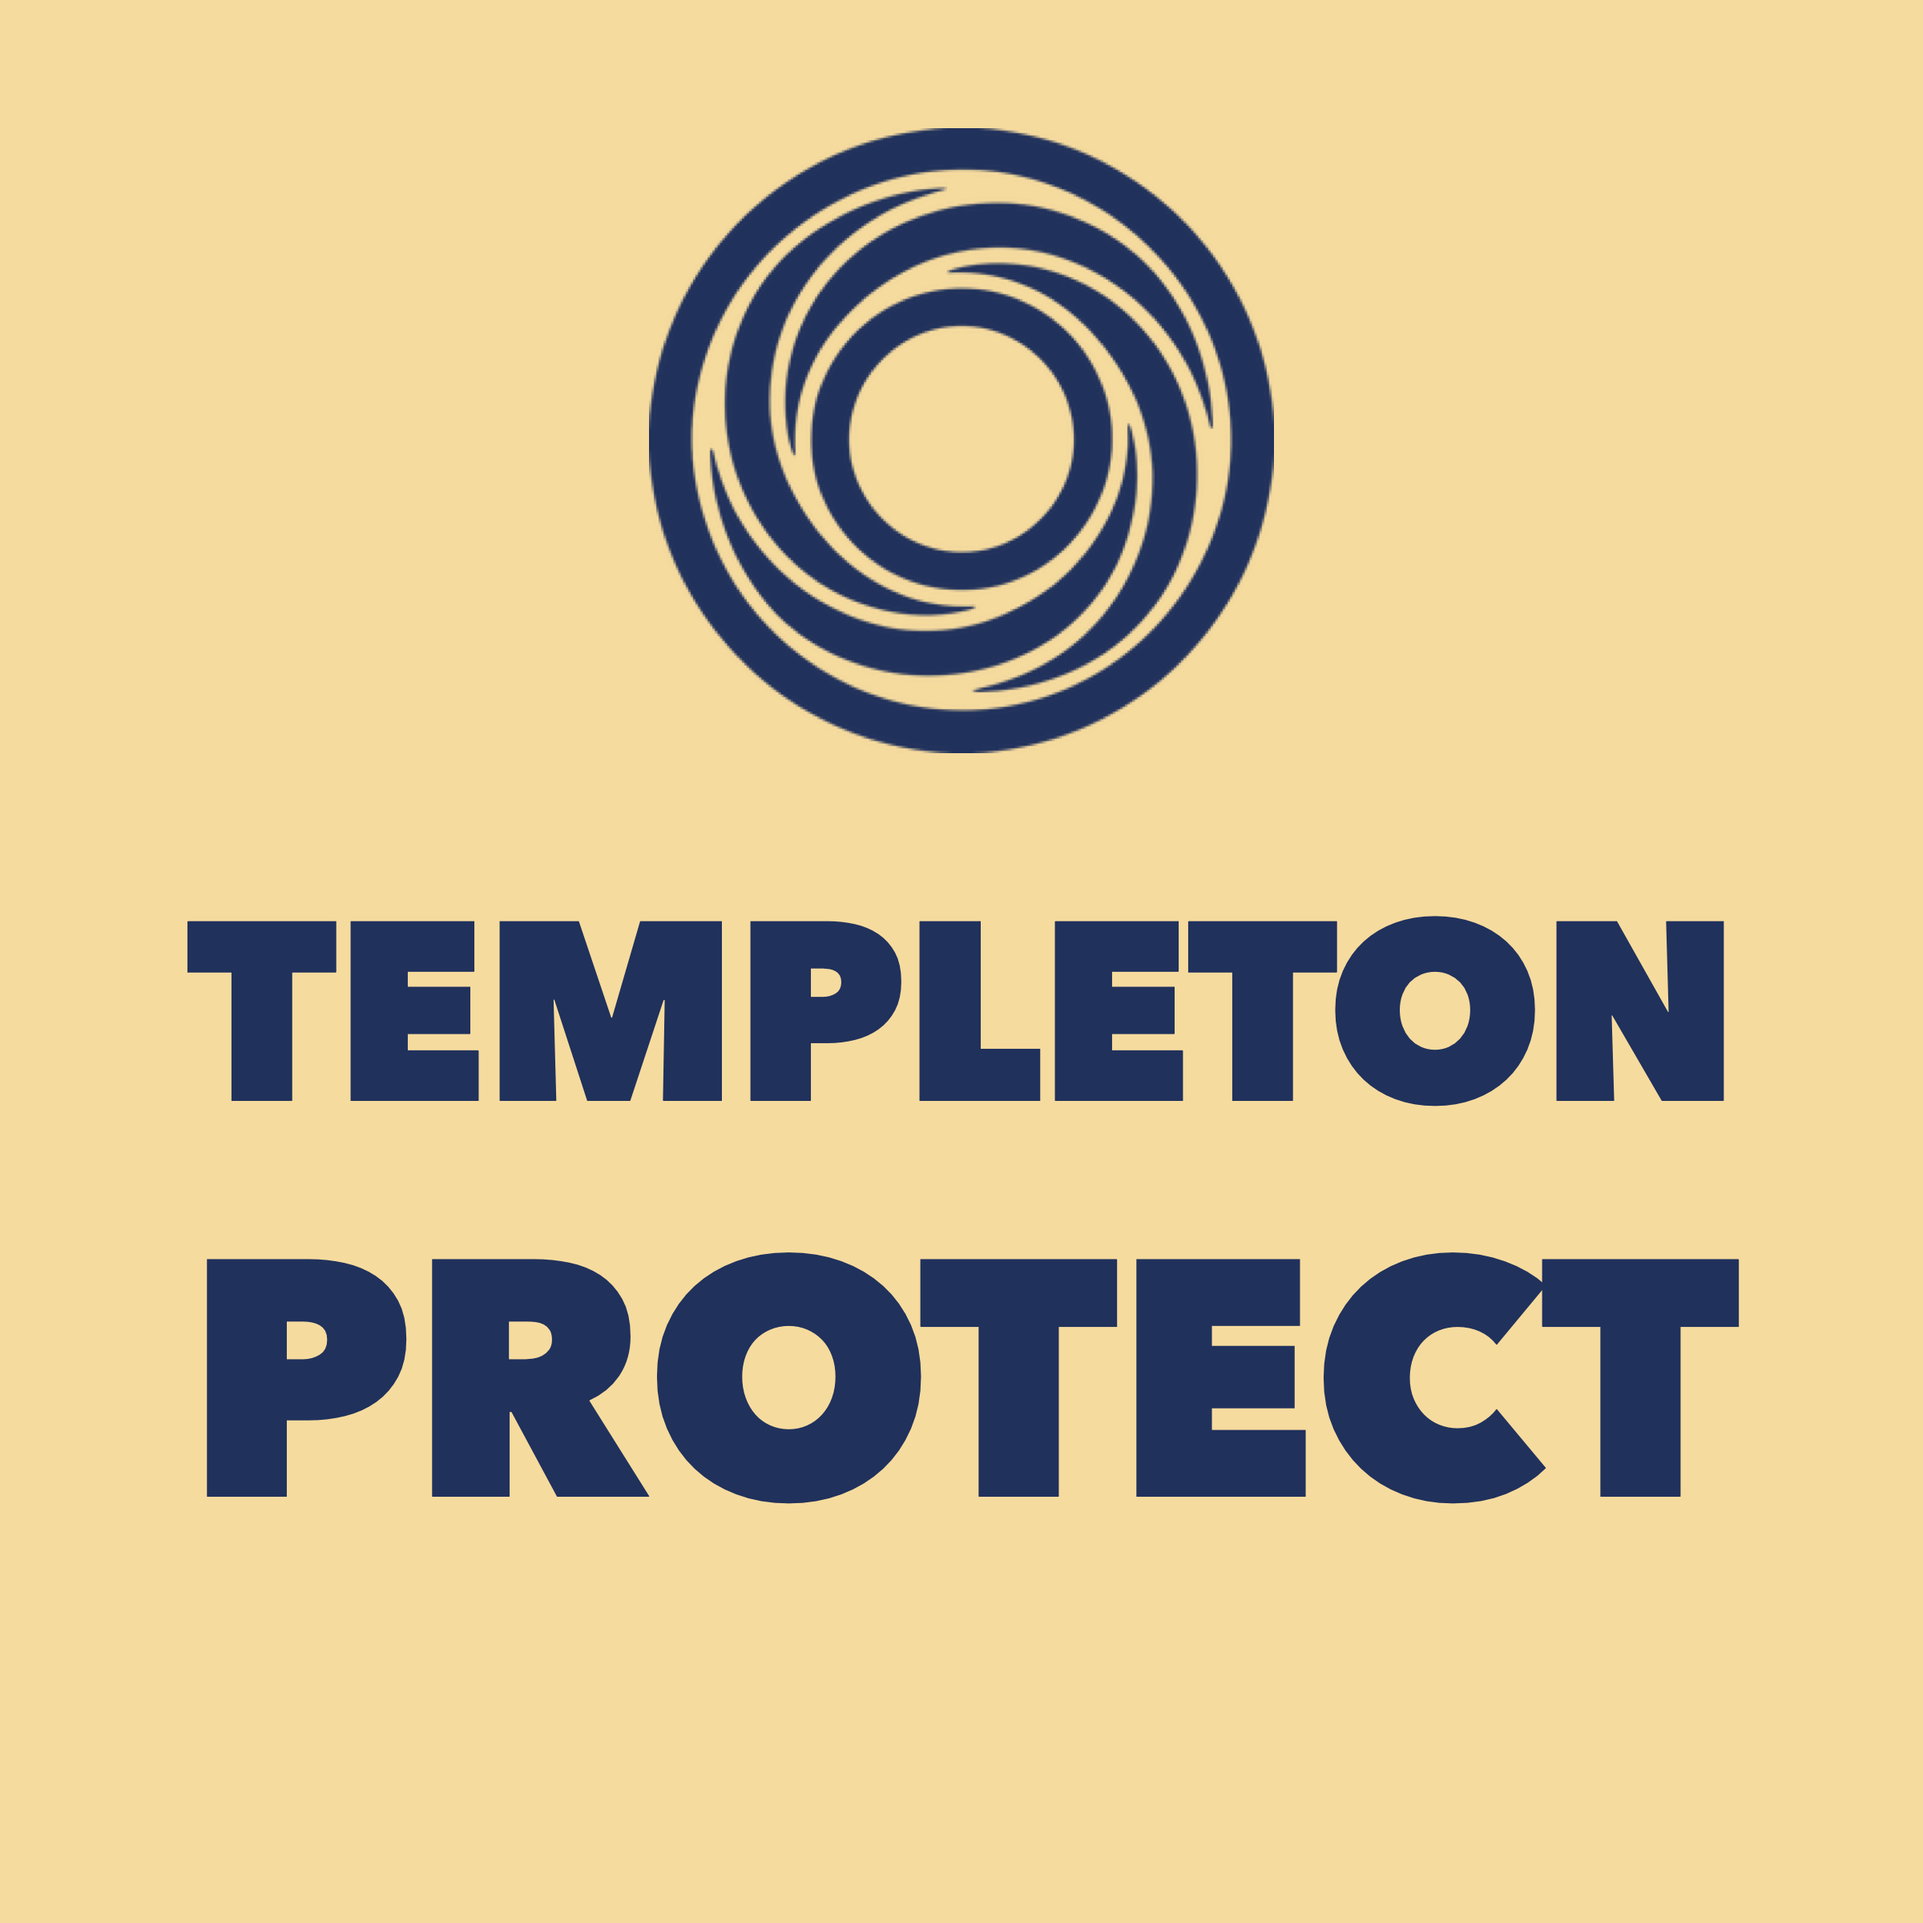
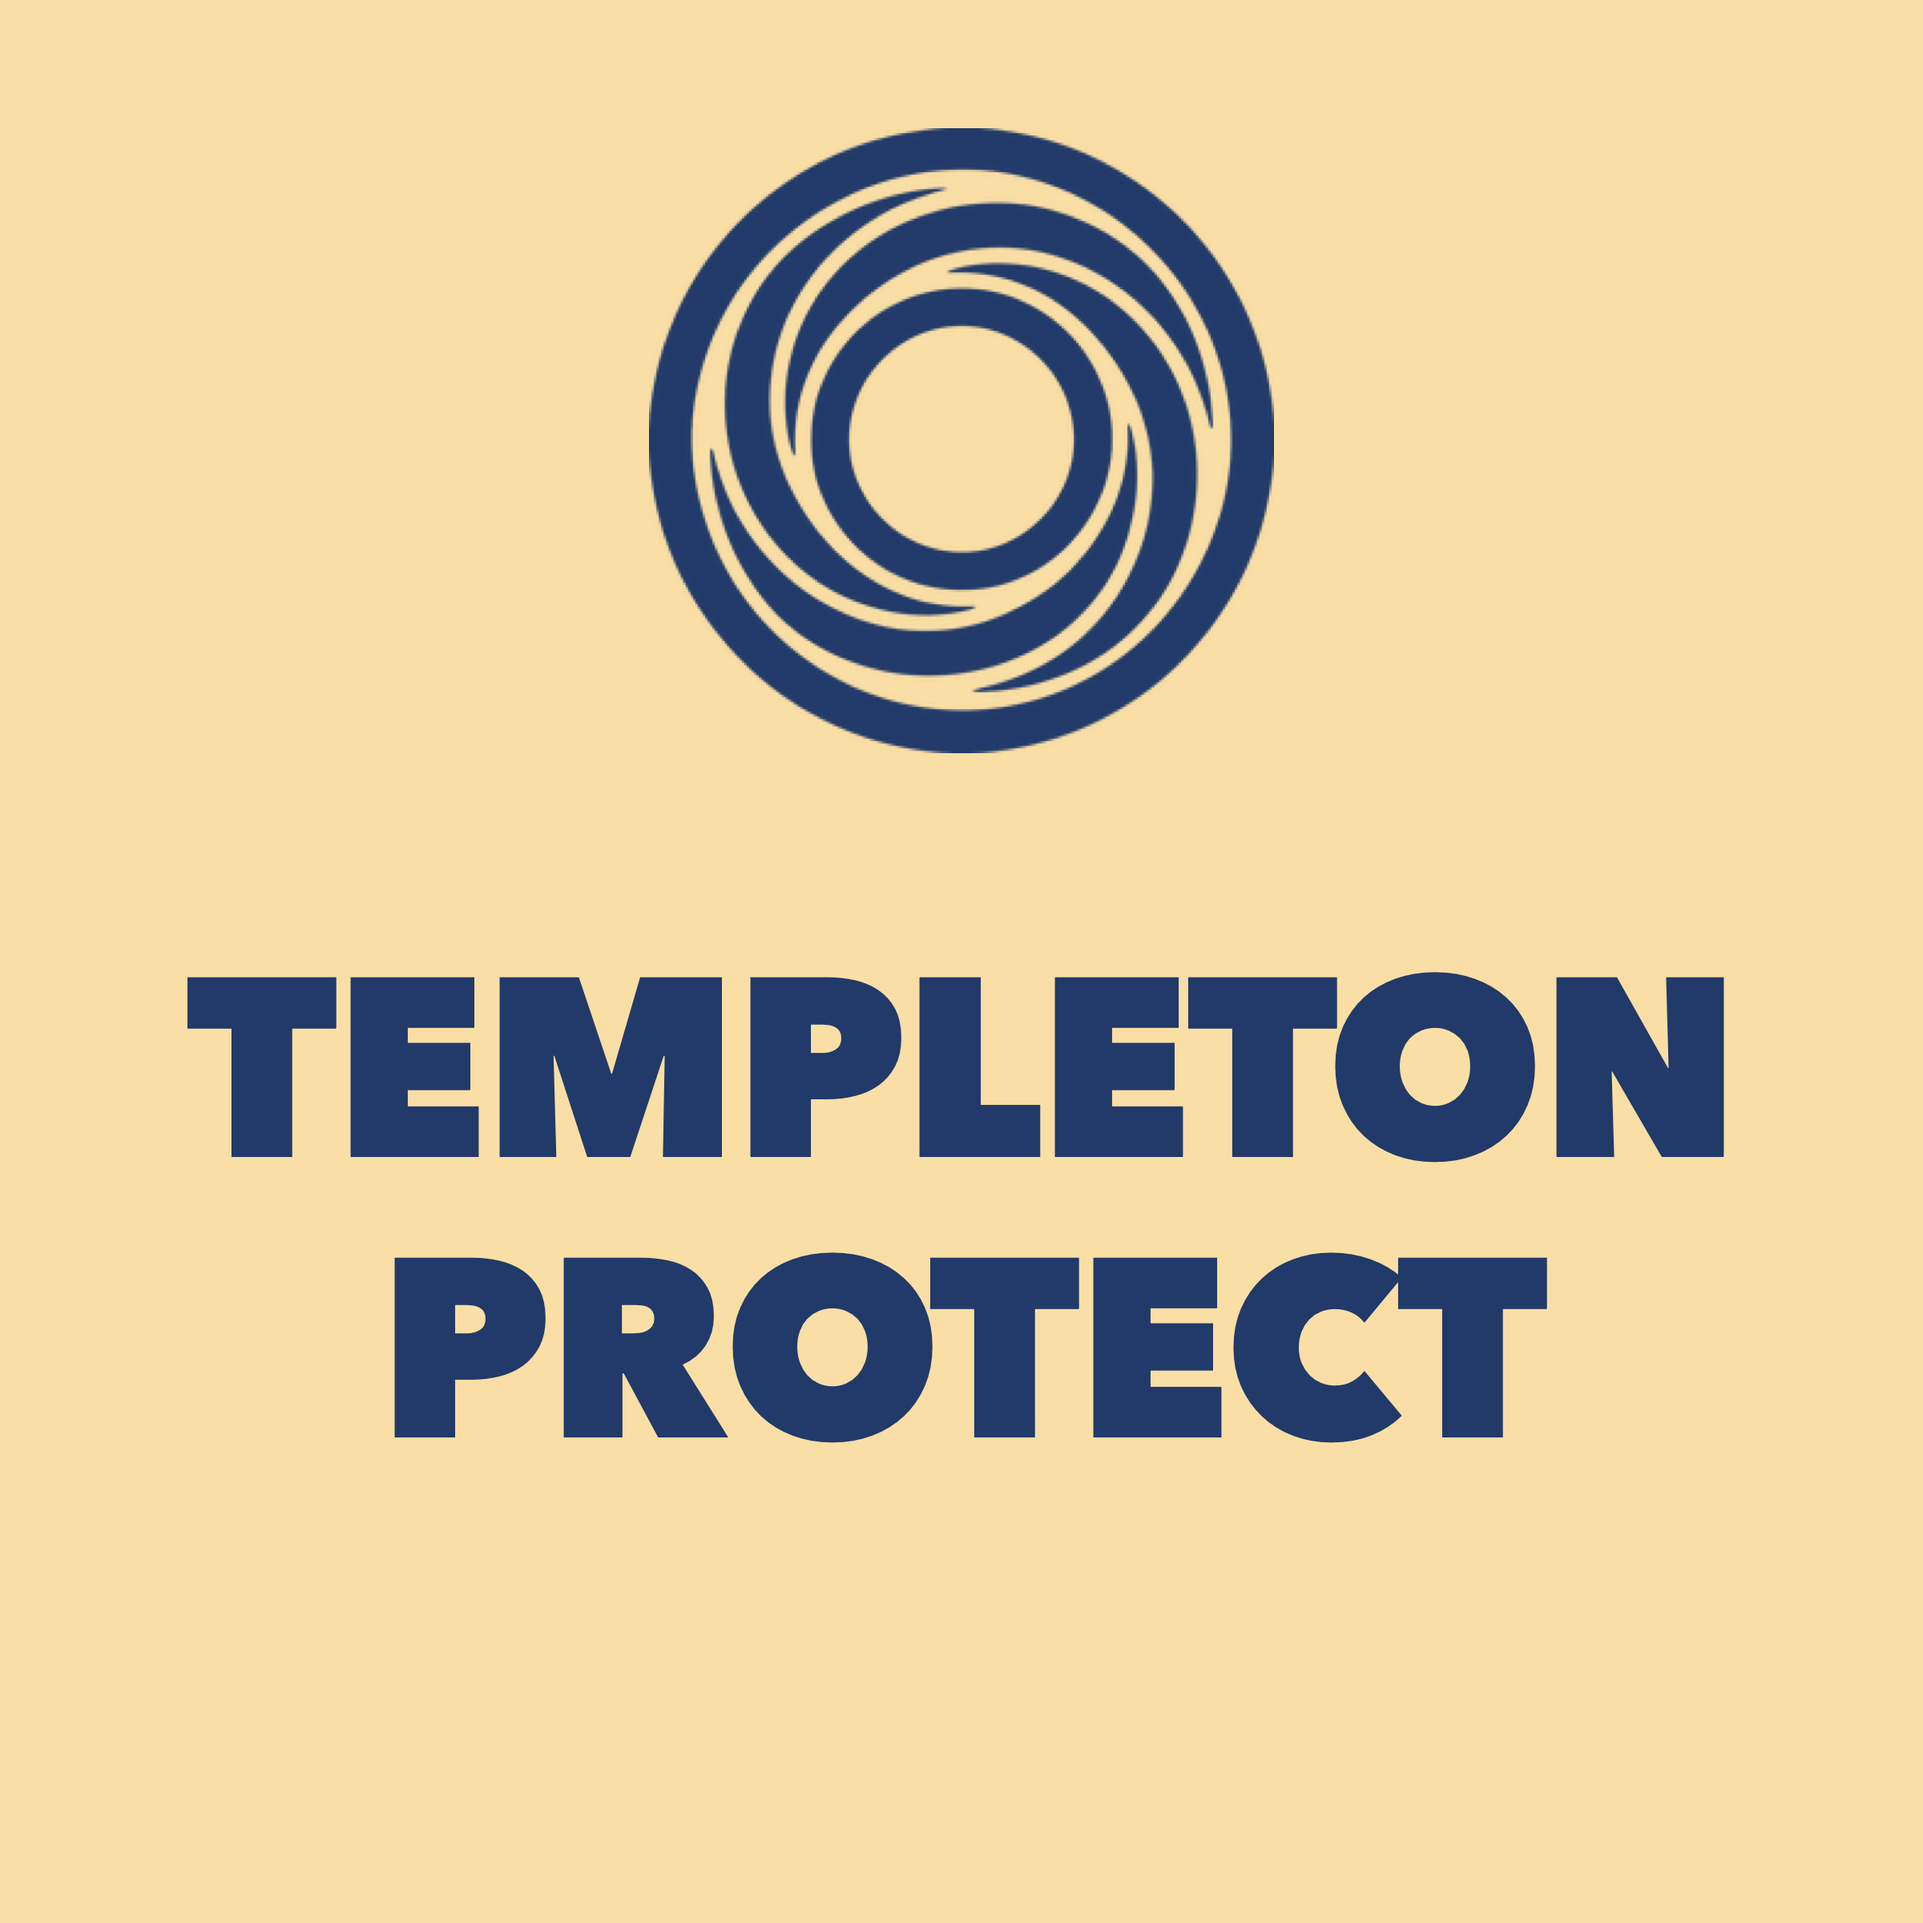
Tighten the stacked Protect wordmark
Ref TG-293

Changed region(s): [[0.0938, 0.4688, 0.9062, 0.625], [0.0938, 0.625, 0.9062, 0.7812]]

diff --git a/mac/make-wordmark.swift b/mac/make-wordmark.swift
@@ -43,10 +43,35 @@ guard let sourceMark = NSImage(contentsOf: markURL) else {
     fatalError("Could not load \(markURL.path)")
 }
 
+func bitmap(size: NSSize) -> NSBitmapImageRep {
+    let scale: CGFloat = 2
+    guard let bitmap = NSBitmapImageRep(
+        bitmapDataPlanes: nil,
+        pixelsWide: Int(size.width * scale),
+        pixelsHigh: Int(size.height * scale),
+        bitsPerSample: 8,
+        samplesPerPixel: 4,
+        hasAlpha: true,
+        isPlanar: false,
+        colorSpaceName: .deviceRGB,
+        bitmapFormat: [],
+        bytesPerRow: 0,
+        bitsPerPixel: 0
+    ) else {
+        fatalError("Could not create a \(Int(size.width * scale)) × \(Int(size.height * scale)) bitmap")
+    }
+    bitmap.size = size
+    return bitmap
+}
+
 func tintedMark(size: NSSize, color: NSColor) -> NSImage {
-    let output = NSImage(size: size)
-    output.lockFocus()
-    NSGraphicsContext.current?.imageInterpolation = .high
+    let markBitmap = bitmap(size: size)
+    guard let context = NSGraphicsContext(bitmapImageRep: markBitmap) else {
+        fatalError("Could not create the mark drawing context")
+    }
+    NSGraphicsContext.saveGraphicsState()
+    NSGraphicsContext.current = context
+    context.imageInterpolation = .high
 
     let bounds = NSRect(origin: .zero, size: size)
     color.setFill()
@@ -58,7 +83,11 @@ func tintedMark(size: NSSize, color: NSColor) -> NSImage {
         fraction: 1
     )
 
-    output.unlockFocus()
+    context.flushGraphics()
+    NSGraphicsContext.restoreGraphicsState()
+
+    let output = NSImage(size: size)
+    output.addRepresentation(markBitmap)
     return output
 }
 
@@ -79,10 +108,17 @@ func fittedFont(for string: String, maxWidth: CGFloat, startingAt start: CGFloat
     return NSFont.systemFont(ofSize: pointSize, weight: .heavy)
 }
 
-func prepareCanvas(size: NSSize, background: NSColor?) -> NSImage {
-    let image = NSImage(size: size)
-    image.lockFocus()
-    NSGraphicsContext.current?.imageInterpolation = .high
+func prepareCanvas(
+    size: NSSize,
+    background: NSColor?
+) -> (bitmap: NSBitmapImageRep, context: NSGraphicsContext) {
+    let canvasBitmap = bitmap(size: size)
+    guard let context = NSGraphicsContext(bitmapImageRep: canvasBitmap) else {
+        fatalError("Could not create the wordmark drawing context")
+    }
+    NSGraphicsContext.saveGraphicsState()
+    NSGraphicsContext.current = context
+    context.imageInterpolation = .high
 
     let canvas = NSRect(origin: .zero, size: size)
     NSColor.clear.setFill()
@@ -91,22 +127,18 @@ func prepareCanvas(size: NSSize, background: NSColor?) -> NSImage {
         background.setFill()
         canvas.fill()
     }
-    return image
+    return (canvasBitmap, context)
 }
 
-func write(_ image: NSImage, filename: String) throws {
-    guard
-        let tiff = image.tiffRepresentation,
-        let bitmap = NSBitmapImageRep(data: tiff),
-        let png = bitmap.representation(using: .png, properties: [:])
-    else {
+func write(_ bitmap: NSBitmapImageRep, filename: String) throws {
+    guard let png = bitmap.representation(using: .png, properties: [:]) else {
         fatalError("Could not encode \(filename)")
     }
     try png.write(to: outputURL.appendingPathComponent(filename), options: .atomic)
 }
 
 func writeHorizontal(background: NSColor?, ink: NSColor, filename: String) throws {
-    let image = prepareCanvas(size: horizontalSize, background: background)
+    let surface = prepareCanvas(size: horizontalSize, background: background)
 
     let markSize: CGFloat = 236
     let mark = tintedMark(
@@ -137,8 +169,9 @@ func writeHorizontal(background: NSColor?, ink: NSColor, filename: String) throw
         y: (horizontalSize.height - text.size().height) / 2
     ))
 
-    image.unlockFocus()
-    try write(image, filename: filename)
+    surface.context.flushGraphics()
+    NSGraphicsContext.restoreGraphicsState()
+    try write(surface.bitmap, filename: filename)
 }
 
 func drawCentered(_ string: String, y: CGFloat, font: NSFont, ink: NSColor) {
@@ -155,7 +188,7 @@ func drawCentered(_ string: String, y: CGFloat, font: NSFont, ink: NSColor) {
 }
 
 func writeStacked(background: NSColor?, ink: NSColor, filename: String) throws {
-    let image = prepareCanvas(size: stackedSize, background: background)
+    let surface = prepareCanvas(size: stackedSize, background: background)
 
     let markSize: CGFloat = 390
     let mark = tintedMark(
@@ -169,21 +202,17 @@ func writeStacked(background: NSColor?, ink: NSColor, filename: String) throws {
         height: markSize
     ))
 
-    let templetonFont = fittedFont(
+    let stackedFont = fittedFont(
         for: "TEMPLETON",
         maxWidth: 970,
         startingAt: 164
     )
-    let protectFont = fittedFont(
-        for: "PROTECT",
-        maxWidth: 970,
-        startingAt: 224
-    )
-    drawCentered("TEMPLETON", y: 455, font: templetonFont, ink: ink)
-    drawCentered("PROTECT", y: 190, font: protectFont, ink: ink)
+    drawCentered("TEMPLETON", y: 420, font: stackedFont, ink: ink)
+    drawCentered("PROTECT", y: 245, font: stackedFont, ink: ink)
 
-    image.unlockFocus()
-    try write(image, filename: filename)
+    surface.context.flushGraphics()
+    NSGraphicsContext.restoreGraphicsState()
+    try write(surface.bitmap, filename: filename)
 }
 
 // Horizontal family: two transparent masters and two presentation backgrounds.
